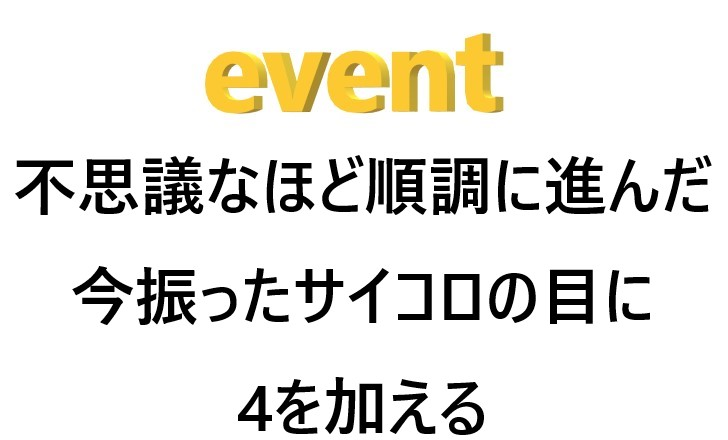
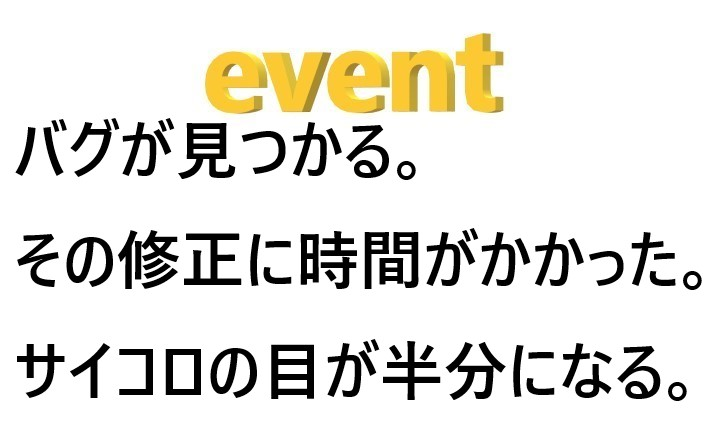
チャンスカードの効果を一部変更

Changed region(s): [[0.0, 0.2659, 0.9973, 0.7386], [0.0, 0.7682, 0.967, 1.0]]

diff --git a/msotu.js b/msotu.js
@@ -277,12 +277,10 @@ function event(c) {
     }
 
 
-  if (c == 8) {
+  if (c <= 8) {
     daiceme = daiceme / 2;
   }
-  if (c == 9) {
-    daiceme = daiceme + 4;
-  }
+
 
 }
 
